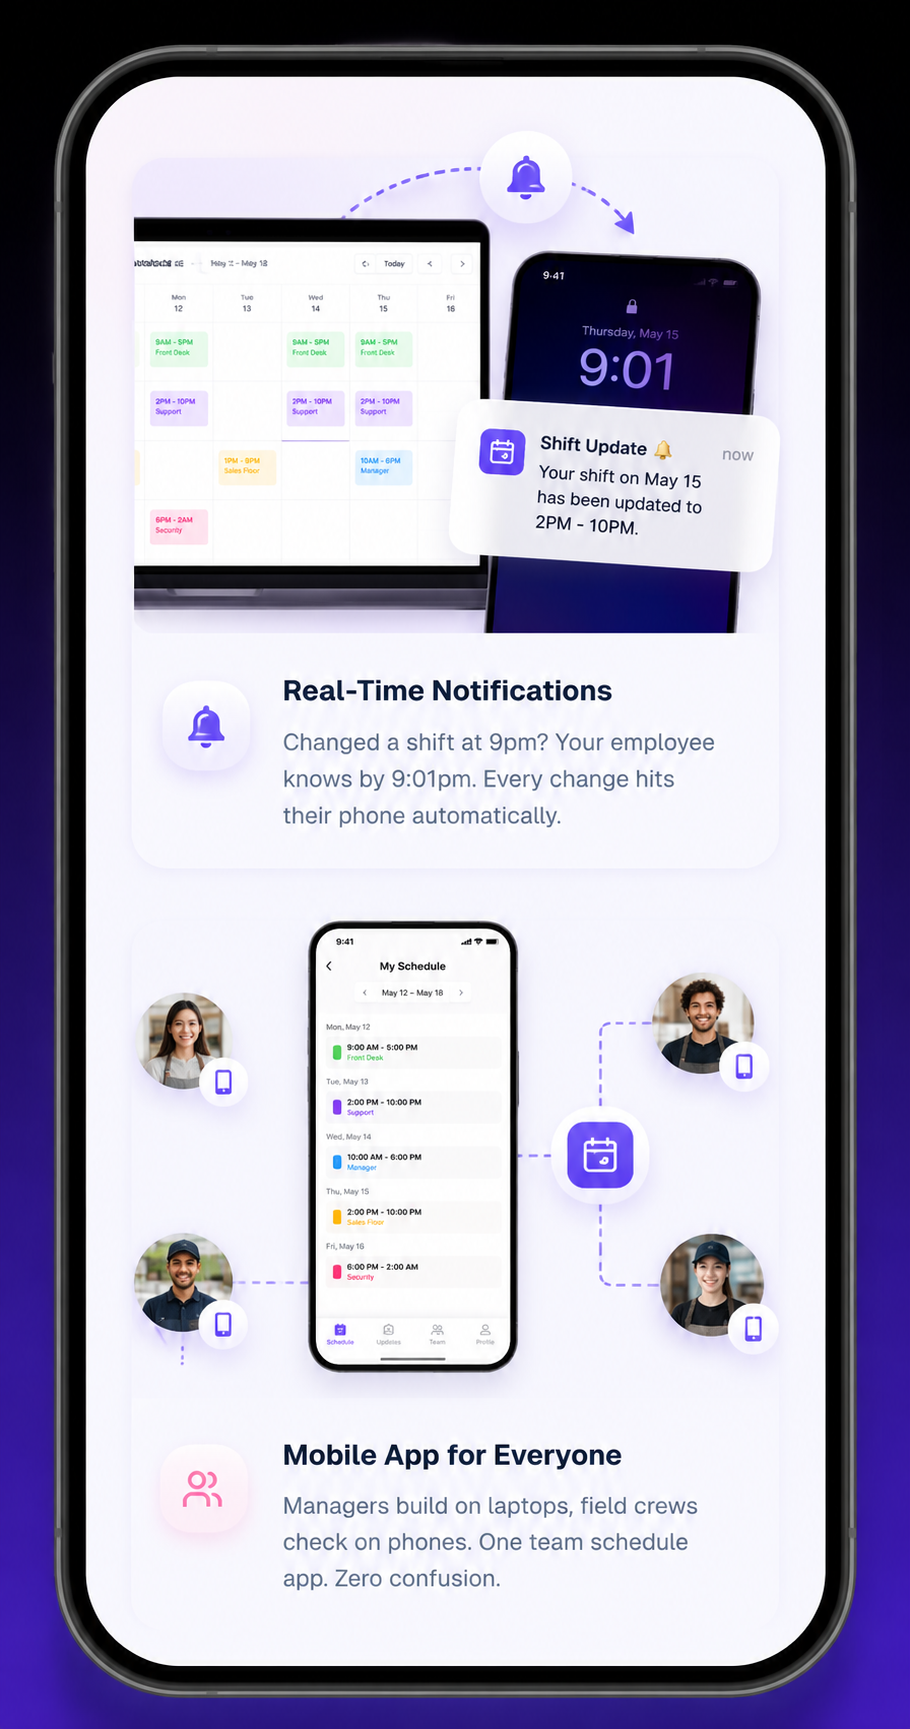
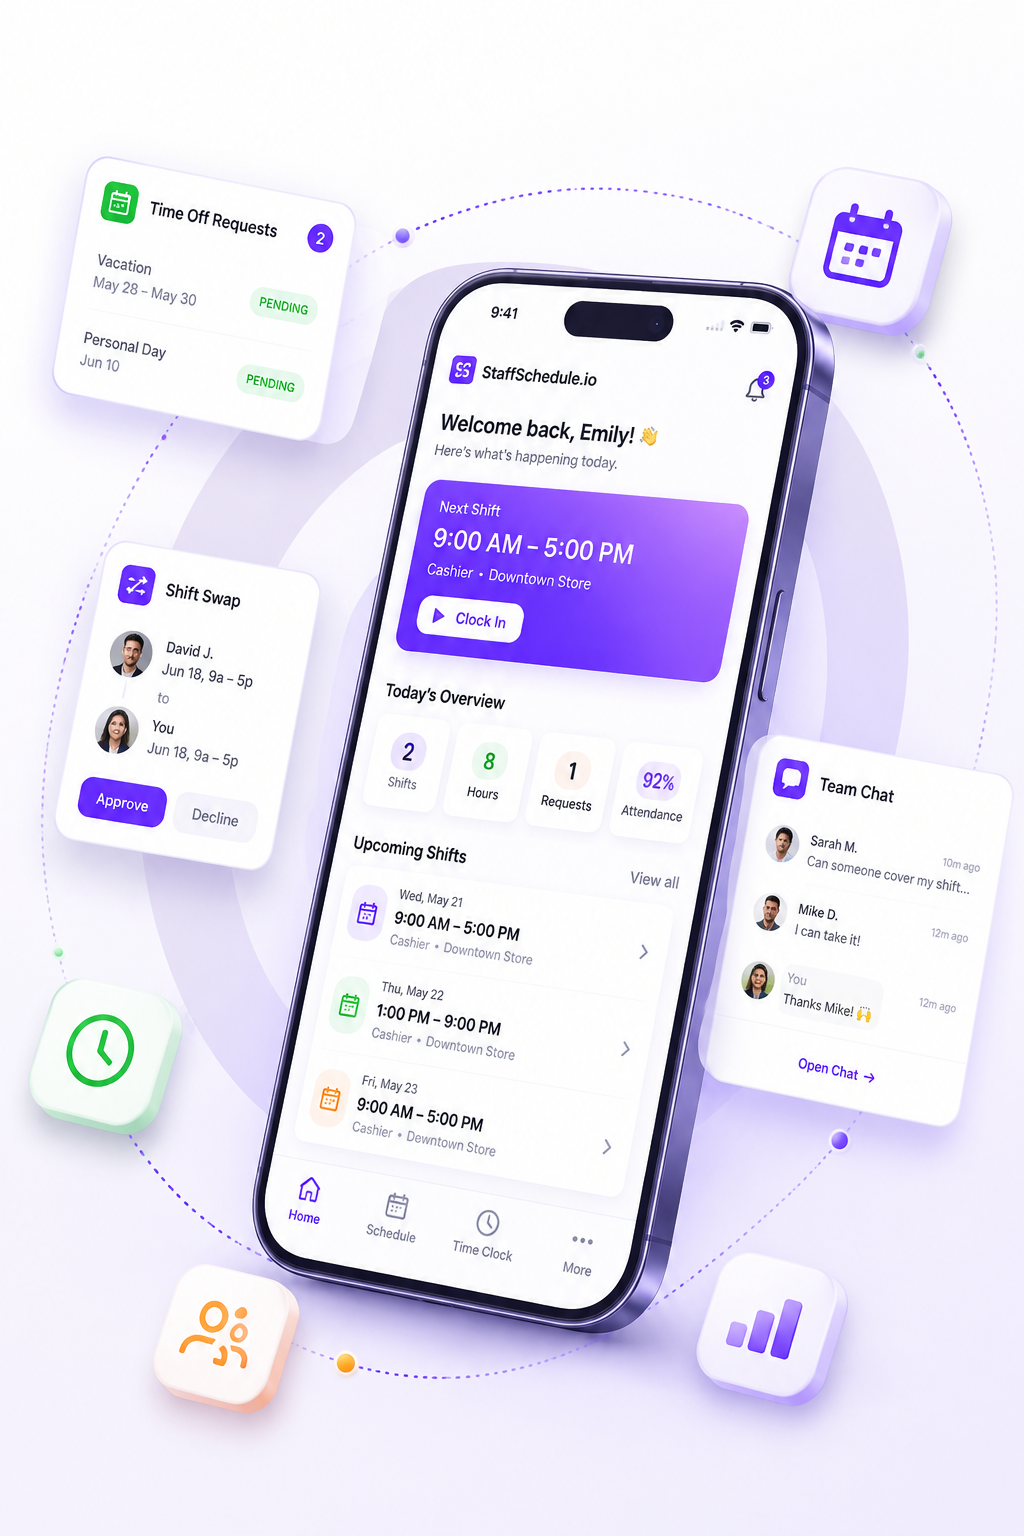
Fix middleware static file intercept and update mobile section image

diff --git a/components/MobileSection.tsx b/components/MobileSection.tsx
@@ -1,66 +1,220 @@
 "use client";
-
 import React from "react";
 import { motion } from "framer-motion";
-import { Smartphone } from "lucide-react";
+import { Smartphone, Check, ArrowRight, AppWindow, Play, MessageSquare, Calendar, Clock } from "lucide-react";
 
 export default function MobileSection() {
+  // Stagger animation variants
+  const containerVariants = {
+    hidden: {},
+    visible: {
+      transition: {
+        staggerChildren: 0.15,
+      },
+    },
+  };
+
+  const itemVariants = {
+    hidden: { opacity: 0, y: 30 },
+    visible: {
+      opacity: 1,
+      y: 0,
+      transition: { duration: 0.8, ease: [0.22, 1, 0.36, 1] },
+    },
+  };
+
+  const listItems = [
+    {
+      title: "Real-Time Shift Scheduling",
+      desc: "Instantly check your assigned shifts, view role details, and see work locations on the go.",
+      icon: Calendar,
+      iconColor: "text-indigo-400",
+      iconBg: "bg-indigo-500/10",
+    },
+    {
+      title: "Collaborative Shift Swaps",
+      desc: "Can't make it? Offer your shift to qualified teammates and let managers approve it instantly.",
+      icon: Clock,
+      iconColor: "text-purple-400",
+      iconBg: "bg-purple-500/10",
+    },
+    {
+      title: "Integrated Team Messaging",
+      desc: "Direct messages and department channels. No personal phone numbers or extra chat apps required.",
+      icon: MessageSquare,
+      iconColor: "text-emerald-400",
+      iconBg: "bg-emerald-500/10",
+    },
+  ];
+
   return (
-    <section className="relative py-24 lg:py-40 bg-slate-900 overflow-hidden font-sans">
-      <div className="absolute inset-0 pointer-events-none">
-        <div className="absolute top-0 right-[-10%] w-[800px] h-[800px] bg-gradient-to-br from-indigo-500/20 to-purple-600/20 rounded-full blur-[120px]" />
-        <div className="absolute bottom-0 left-[-10%] w-[600px] h-[600px] bg-gradient-to-tr from-pink-500/10 to-violet-500/20 rounded-full blur-[100px]" />
+    <section className="relative py-24 lg:py-40 bg-[#0B0F19] overflow-hidden font-sans">
+      {/* ── Background Grid & Ambient Glows ── */}
+      <div className="absolute inset-0 pointer-events-none z-0">
+        {/* Modern Grid Overlay */}
+        <div className="absolute inset-0 bg-[linear-gradient(to_right,#1f293710_1px,transparent_1px),linear-gradient(to_bottom,#1f293710_1px,transparent_1px)] bg-[size:4rem_4rem] [mask-image:radial-gradient(ellipse_60%_50%_at_50%_50%,#000_70%,transparent_100%)] opacity-30" />
+        
+        {/* Soft Radial Orbs */}
+        <div className="absolute top-0 right-[-10%] w-[800px] h-[800px] bg-gradient-to-br from-indigo-500/15 to-purple-600/10 rounded-full blur-[140px]" />
+        <div className="absolute bottom-[-10%] left-[-10%] w-[700px] h-[700px] bg-gradient-to-tr from-pink-500/10 to-violet-600/15 rounded-full blur-[120px]" />
       </div>
 
-      <div className="max-w-7xl mx-auto px-6 relative z-10">
-        <div className="grid lg:grid-cols-2 gap-16 lg:gap-24 items-center">
+      <div className="max-w-[1300px] mx-auto px-6 relative z-10">
+        <div className="grid lg:grid-cols-12 gap-16 lg:gap-24 items-center">
           
+          {/* ── LEFT: Dynamic Text Content ── */}
           <motion.div
-            initial={{ opacity: 0, x: -40 }}
-            whileInView={{ opacity: 1, x: 0 }}
-            viewport={{ once: true }}
-            transition={{ duration: 0.8 }}
+            className="lg:col-span-7 xl:col-span-6 flex flex-col justify-center"
+            variants={containerVariants}
+            initial="hidden"
+            whileInView="visible"
+            viewport={{ once: true, margin: "-100px" }}
           >
-            <div className="inline-flex items-center gap-2 px-3 py-1 rounded-full bg-indigo-500/10 border border-indigo-500/20 text-indigo-400 font-black text-[10px] uppercase tracking-widest mb-6">
-              <Smartphone size={14} />
-              Mobile App
+            {/* Pill Badge */}
+            <motion.div variants={itemVariants} className="self-start inline-flex items-center gap-2 px-4 py-2 rounded-full bg-indigo-500/10 border border-indigo-500/20 text-indigo-400 font-black text-[10px] uppercase tracking-[0.2em] mb-6 shadow-[0_4px_20px_-5px_rgba(99,102,241,0.3)]">
+              <Smartphone size={12} className="animate-pulse" />
+              Mobile Experience
+            </motion.div>
+
+            {/* Main Heading */}
+            <motion.h2 variants={itemVariants} className="text-4xl sm:text-5xl lg:text-[3.25rem] font-black text-white tracking-tight mb-6 leading-[1.1]">
+              Your Workforce in <span className="text-transparent bg-clip-text bg-gradient-to-r from-indigo-400 via-purple-400 to-pink-400 drop-shadow-sm">Your Pocket</span>
+            </motion.h2>
+
+            {/* Description Paragraph */}
+            <motion.p variants={itemVariants} className="text-base sm:text-lg text-slate-300 font-medium leading-relaxed mb-10 max-w-2xl">
+              Managers and employees shouldn't be chained to a desk. StaffSchedule.io gives your entire team the power to check schedules, request swaps, submit leave, and chat in real-time — all from a single intuitive mobile app.
+            </motion.p>
+
+            {/* Features Staggered List */}
+            <div className="flex flex-col gap-5 mb-10">
+              {listItems.map((item, idx) => (
+                <motion.div
+                  key={idx}
+                  variants={itemVariants}
+                  whileHover={{ x: 6 }}
+                  transition={{ duration: 0.2 }}
+                  className="flex items-start gap-4 p-4 rounded-2xl bg-white/[0.02] border border-white/[0.05] hover:bg-white/[0.04] hover:border-white/[0.08] transition-all duration-300 shadow-lg"
+                >
+                  <div className={`p-3 rounded-xl ${item.iconBg} ${item.iconColor} flex-shrink-0`}>
+                    <item.icon size={18} />
+                  </div>
+                  <div>
+                    <h3 className="text-sm font-bold text-slate-100 mb-1">{item.title}</h3>
+                    <p className="text-xs sm:text-sm text-slate-400 font-medium leading-relaxed">{item.desc}</p>
+                  </div>
+                </motion.div>
+              ))}
             </div>
 
-            <h2 className="text-4xl sm:text-5xl lg:text-6xl font-black text-white tracking-tight mb-8 leading-[1.1]">
-              Your Workforce in <span className="text-transparent bg-clip-text bg-gradient-to-r from-indigo-400 to-purple-400">Your Pocket</span>
-            </h2>
+            {/* CTA Buttons - Store Badges Mock */}
+            <motion.div variants={itemVariants} className="flex flex-wrap items-center gap-4">
+              <a
+                href="https://app.staffschedule.io/onboarding.php"
+                className="relative group inline-flex items-center gap-3 px-8 py-3.5 rounded-xl bg-gradient-to-r from-indigo-600 to-purple-600 text-white font-black text-xs uppercase tracking-[0.12em] shadow-lg shadow-indigo-500/25 hover:shadow-indigo-500/40 transition-all duration-300 overflow-hidden"
+              >
+                <span className="absolute inset-0 opacity-0 group-hover:opacity-100 transition-opacity duration-300" style={{ background: "linear-gradient(135deg, rgba(255,255,255,0.15), transparent)" }} />
+                <span>Start Free Trial</span>
+                <ArrowRight size={14} className="group-hover:translate-x-1 transition-transform" />
+              </a>
 
-            <p className="text-lg text-slate-300 font-medium leading-relaxed mb-6">
-              Managers don’t always work from one desk. That’s why StaffSchedule.io gives businesses the flexibility to manage staff scheduling, employee availability, leave requests, open shifts, and team communication from anywhere using one simple employee scheduling online app.
-            </p>
-
-            <p className="text-lg text-slate-300 font-medium leading-relaxed mb-8">
-              Whether you’re at the office, at home, traveling, or managing multiple locations, our app for staff scheduling helps you stay connected with your employees in real time. You can create schedules, approve leaves, send announcements, and manage shift changes in just a few taps without stressful phone calls, messy spreadsheets, or confusing group chats.
-            </p>
-
-            <div className="bg-white/5 border border-white/10 rounded-2xl p-6 backdrop-blur-md">
-              <p className="text-slate-200 font-semibold leading-relaxed">
-                StaffSchedule.io is built to make team management easier for growing businesses with a powerful team scheduling app and employee work schedule app that keeps everyone organized, informed, and productive from anywhere.
-              </p>
-            </div>
+              <div className="flex items-center gap-3 px-6 py-3.5 rounded-xl bg-white/[0.03] border border-white/[0.08] backdrop-blur-md">
+                <span className="w-2 h-2 rounded-full bg-emerald-400 animate-ping" />
+                <span className="text-slate-300 font-black text-xs uppercase tracking-[0.12em]">Live Web App Sync</span>
+              </div>
+            </motion.div>
           </motion.div>
 
-          <motion.div
-            initial={{ opacity: 0, y: 40 }}
-            whileInView={{ opacity: 1, y: 0 }}
-            viewport={{ once: true }}
-            transition={{ duration: 1 }}
-            className="relative flex justify-center"
-          >
-            <div className="relative w-full max-w-[400px]">
-              <div className="absolute inset-0 bg-gradient-to-b from-indigo-500/30 to-purple-500/30 blur-2xl rounded-[3rem] transform scale-95" />
-              <img 
-                src="/staffschedule-mobile-app.png" 
-                alt="StaffSchedule.io Mobile App" 
-                className="relative z-10 w-full h-auto drop-shadow-2xl"
-              />
-            </div>
-          </motion.div>
+          {/* ── RIGHT: Device Mockups & Interactive Elements ── */}
+          <div className="lg:col-span-5 xl:col-span-6 relative flex justify-center items-center">
+            
+            {/* Floating Background Glow under device */}
+            <div className="absolute w-[350px] h-[350px] bg-gradient-to-br from-indigo-600/30 to-purple-600/30 blur-3xl rounded-[3rem] transform scale-90 pointer-events-none" />
+
+            {/* Interactive Phone Frame Container */}
+            <motion.div
+              initial={{ opacity: 0, scale: 0.9, y: 60 }}
+              whileInView={{ opacity: 1, scale: 1, y: 0 }}
+              viewport={{ once: true }}
+              transition={{ duration: 1, ease: [0.16, 1, 0.3, 1] }}
+              whileHover={{ rotateY: -6, rotateX: 6, scale: 1.03 }}
+              style={{ perspective: 1200, transformStyle: "preserve-3d" }}
+              className="relative w-full max-w-[320px] sm:max-w-[350px] z-10 cursor-pointer"
+            >
+              {/* Premium Phone Bezel (Hardware Mockup CSS) */}
+              <div 
+                className="relative rounded-[3rem] border-[10px] border-slate-900 bg-slate-950 p-2.5 overflow-hidden"
+                style={{ 
+                  boxShadow: "0 50px 100px -20px rgba(0,0,0,0.7), 0 0 0 1px rgba(255,255,255,0.1) inset",
+                  transformStyle: "preserve-3d"
+                }}
+              >
+                {/* iPhone Dynamic Island / Notch */}
+                <div className="absolute top-4 left-1/2 -translate-x-1/2 w-28 h-6 bg-slate-900 rounded-full z-30 flex items-center justify-between px-3.5">
+                  <div className="w-1.5 h-1.5 rounded-full bg-slate-800" />
+                  <div className="w-12 h-1.5 bg-slate-800 rounded-full" />
+                  <div className="w-2.5 h-2.5 rounded-full bg-[#0a122c] border border-slate-900 flex items-center justify-center">
+                    <div className="w-1 h-1 rounded-full bg-blue-900/50" />
+                  </div>
+                </div>
+
+                {/* The Mobile Screen Image */}
+                <div className="relative rounded-[2.25rem] overflow-hidden bg-slate-900 aspect-[9/19]">
+                  <img 
+                    src="/staffschedule-mobile.png" 
+                    alt="StaffSchedule.io Mobile App interface" 
+                    className="w-full h-full object-cover select-none"
+                    onError={(e) => {
+                      // Fallback image in case the file has any issue
+                      e.currentTarget.src = "/mobile-schedule-app.png";
+                    }}
+                  />
+                  {/* Subtle glare overlay */}
+                  <div className="absolute inset-0 bg-gradient-to-tr from-transparent via-white/5 to-transparent pointer-events-none" />
+                </div>
+              </div>
+
+              {/* ── ORBITING / FLOATING INDICATORS ── */}
+              
+              {/* Widget 1: Notification (Top-Left) */}
+              <motion.div
+                animate={{ y: [0, -8, 0] }}
+                transition={{ duration: 3.5, repeat: Infinity, ease: "easeInOut" }}
+                className="absolute top-[12%] -left-[18%] z-20 hidden sm:flex items-center gap-3 bg-slate-900/90 backdrop-blur-xl border border-white/10 rounded-2xl p-3.5 shadow-[0_20px_50px_rgba(0,0,0,0.3)]"
+                style={{ transform: "translateZ(30px)" }}
+              >
+                <div className="size-9 bg-emerald-500/20 text-emerald-400 rounded-xl flex items-center justify-center flex-shrink-0">
+                  <Check size={16} />
+                </div>
+                <div>
+                  <p className="text-[10px] font-bold text-slate-400 uppercase tracking-wider">Shift Swap</p>
+                  <p className="text-xs font-black text-white leading-tight">Approved by Manager</p>
+                </div>
+              </motion.div>
+
+              {/* Widget 2: Message Notification (Bottom-Right) */}
+              <motion.div
+                animate={{ y: [0, 8, 0] }}
+                transition={{ duration: 4, repeat: Infinity, ease: "easeInOut" }}
+                className="absolute bottom-[20%] -right-[18%] z-20 hidden sm:flex items-center gap-3 bg-slate-900/90 backdrop-blur-xl border border-white/10 rounded-2xl p-3.5 shadow-[0_20px_50px_rgba(0,0,0,0.3)]"
+                style={{ transform: "translateZ(40px)" }}
+              >
+                <div className="size-9 bg-indigo-500/20 text-indigo-400 rounded-xl flex items-center justify-center flex-shrink-0">
+                  <MessageSquare size={16} />
+                </div>
+                <div>
+                  <p className="text-[10px] font-bold text-slate-400 uppercase tracking-wider">New Message</p>
+                  <p className="text-xs font-black text-white leading-tight">Emma W: "Thanks!"</p>
+                </div>
+              </motion.div>
+
+            </motion.div>
+
+            {/* Glowing background circles for modern premium aesthetic */}
+            <div className="absolute top-[20%] -left-[10%] w-32 h-32 bg-indigo-500/10 rounded-full blur-2xl pointer-events-none" />
+            <div className="absolute bottom-[20%] -right-[10%] w-36 h-36 bg-purple-500/10 rounded-full blur-2xl pointer-events-none" />
+
+          </div>
 
         </div>
       </div>

diff --git a/components/FeaturesGrid.tsx b/components/FeaturesGrid.tsx
@@ -120,11 +120,11 @@ export default function FeaturesGrid() {
             Interactive Tour
           </motion.div>
 
-          <motion.h2 variants={fadeInUp} className="text-4xl sm:text-6xl lg:text-7xl font-black text-slate-900 tracking-tighter mb-8 leading-[1.05] drop-shadow-sm">
+          <motion.h2 variants={fadeInUp} className="text-3xl sm:text-4xl md:text-5xl lg:text-[3.25rem] font-black text-slate-900 tracking-tight mb-6 leading-[1.15] drop-shadow-sm">
             Our Staff Scheduling Software Has All the Tools to Make <span className="text-transparent bg-clip-text bg-gradient-to-r from-indigo-600 via-purple-600 to-pink-500 drop-shadow-md">Employee Scheduling Easy</span>
           </motion.h2>
 
-          <motion.p variants={fadeInUp} className="text-lg sm:text-xl lg:text-2xl text-slate-500 font-medium leading-relaxed max-w-3xl mx-auto">
+          <motion.p variants={fadeInUp} className="text-base sm:text-lg lg:text-xl text-slate-500 font-medium leading-relaxed max-w-3xl mx-auto">
             StaffSchedule.io comes with easy-to-use scheduling tools that help managers and teams handle daily scheduling tasks without confusion. From shift planning to team management, everything is designed to make work faster, simpler, and more organized.
           </motion.p>
         </motion.div>

diff --git a/middleware.ts b/middleware.ts
@@ -43,6 +43,6 @@ export async function middleware(request: NextRequest) {
 }
 
 export const config = {
-  matcher: ['/((?!_next/static|_next/image|favicon.ico|api/|robots.txt).*)'],
+  matcher: ['/((?!_next/static|_next/image|favicon.ico|.*\\.(?:svg|png|jpg|jpeg|gif|webp)$|api/|robots.txt).*)'],
 };
 